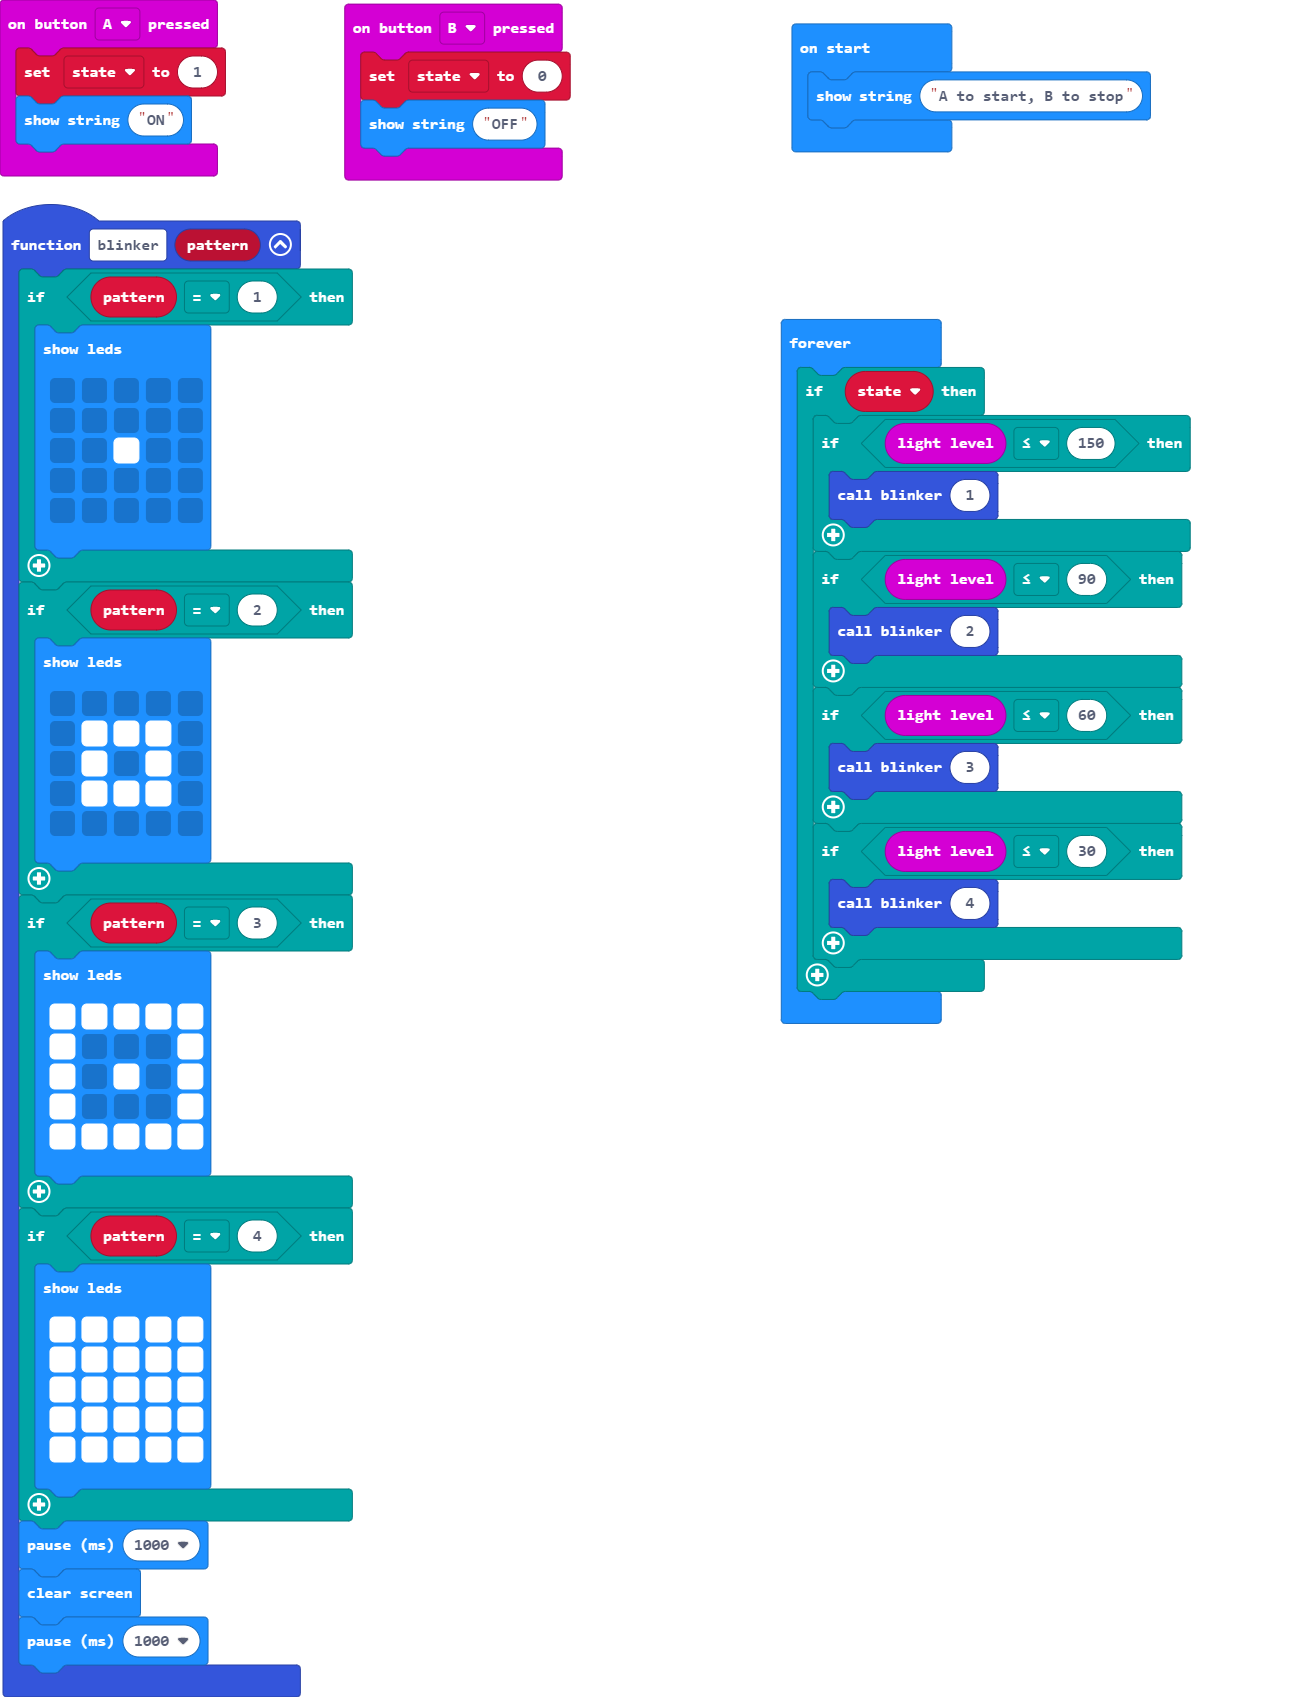
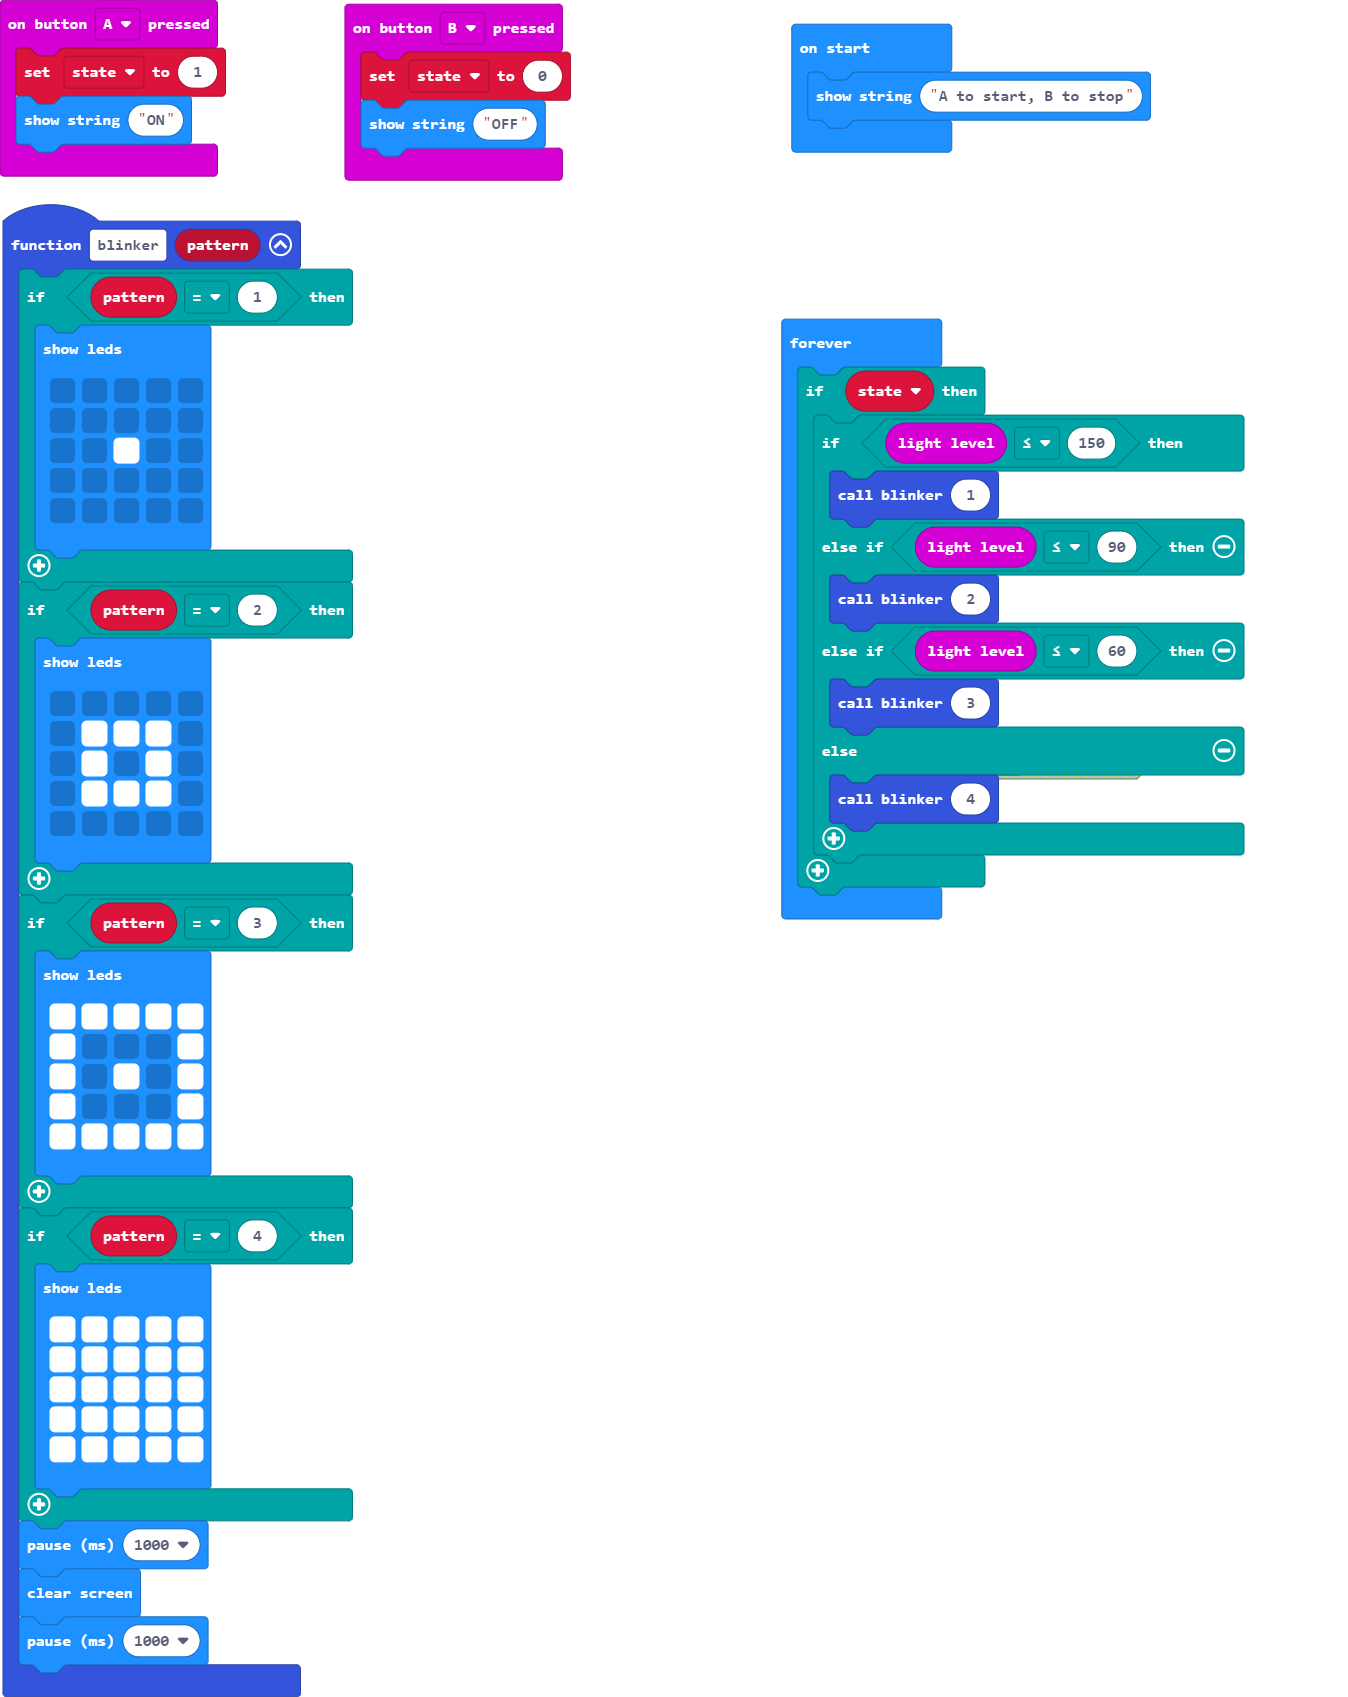
Update pxt.json, main.blocks, main.ts

diff --git a/main.ts b/main.ts
@@ -53,14 +53,11 @@ basic.forever(function () {
     if (state) {
         if (input.lightLevel() <= 150) {
             blinker(1)
-        }
-        if (input.lightLevel() <= 90) {
+        } else if (input.lightLevel() <= 90) {
             blinker(2)
-        }
-        if (input.lightLevel() <= 60) {
+        } else if (input.lightLevel() <= 60) {
             blinker(3)
-        }
-        if (input.lightLevel() <= 30) {
+        } else {
             blinker(4)
         }
     }
